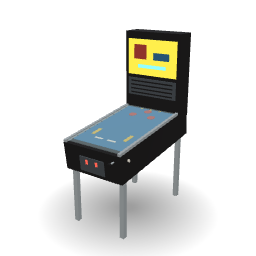
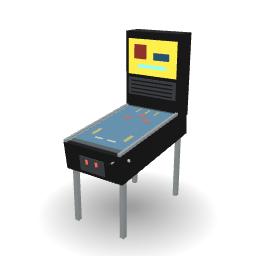
Arcade machines, first review: the pinball's playfield ends at its backbox, the upright's panel meets the base, sizes in the docs

Changed region(s): [[0.7188, 0.125, 0.75, 0.4375], [0.4688, 0.4062, 0.625, 0.5], [0.2812, 0.5312, 0.4688, 0.5938]]

diff --git a/art/scripts/household.py b/art/scripts/household.py
@@ -1126,7 +1126,7 @@ def _upright_screen(p, w, foot, head):
 @piece("service", "ArcadeUpright")
 def arcade_upright():
     """A one-player upright video arcade cabinet (generic, no game's art): the side profile with the control panel at the waist, the screen
-    leaning back above it, a lit marquee overhanging the top; side art; a coin door. 0.64 x 0.84 x 1.75 m."""
+    leaning back above it, a lit marquee overhanging the top; side art; a coin door. 0.66 x 0.72 x 1.75 m (0.64 wide without the side art)."""
     p = Prop("GH_ArcadeUpright_01")
     w, y_front, y_back, base_h = 0.64, -0.30, 0.42, 0.86
     foot, head = (y_front, base_h), (-0.14, 1.50)                                # the sloping screen face
@@ -1136,7 +1136,7 @@ def arcade_upright():
     p.box("black", (0, (marquee_y + y_back) / 2, (head[1] + top) / 2), (w, y_back - marquee_y, top - head[1]))
     p.box("glow_amber", (0, marquee_y - 0.006 + SINK, (head[1] + top) / 2), (w - 0.06, 0.012, 0.17))           # the lit marquee
     _upright_screen(p, w, foot, head)
-    tilt, panel = 12, (0, -0.33, 0.89)                                          # the control panel, leaning towards the player
+    tilt, panel = 12, (0, -0.33, 0.877)                                         # the control panel, leaning towards the player; its underside meets the base's front edge
     p.box("cloth_red", panel, (w - 0.004, 0.18, 0.05), rot=(tilt, 0, 0))
     _joystick(p, _tilted(panel, tilt, -0.15, -0.01, 0.025))
     for k in range(3):
@@ -1179,20 +1179,23 @@ def _pinball_legs(p, centre, tilt, length, height):
             p.box("metal_galv", (x, y, z / 2), (0.05, 0.05, z))
 
 
-def _playfield(p, centre, tilt, height):
-    """The playfield under glass on the tilted top: a blue field with bumpers, lanes and flippers, the glass on two side rails."""
+def _playfield(p, centre, tilt, height, field_end):
+    """The playfield under glass on the tilted top, from the front up to `field_end` (along the cabinet, where the backbox stands): a blue
+    field with bumpers, lanes and flippers, the glass on two side rails, its far end 2 cm into the backbox."""
     top = height / 2
-    p.box("label_blue", _tilted(centre, tilt, 0, 0, top + 0.003 - SINK), (0.62, 1.1, 0.006), rot=(tilt, 0, 0))
+    field_start = -0.53
+    p.box("label_blue", _tilted(centre, tilt, 0, (field_start + field_end) / 2, top + 0.003 - SINK), (0.62, field_end - field_start, 0.006), rot=(tilt, 0, 0))
     art = top + 0.004 + 0.002 - SINK / 2                                        # the decals, 1 mm into the field
-    for x, ly in ((-0.12, 0.25), (0.12, 0.25), (0.0, 0.38)):
+    for x, ly in ((-0.12, 0.15), (0.12, 0.15), (0.0, 0.26)):
         p.cyl("cloth_red", _tilted(centre, tilt, x, ly, art), 0.045, 0.004, n=10, rot=(tilt, 0, 0))
     for x in (-0.12, 0.0, 0.12):
-        p.box("paint_yellow", _tilted(centre, tilt, x, 0.485, art), (0.02, 0.11, 0.004), rot=(tilt, 0, 0))
+        p.box("paint_yellow", _tilted(centre, tilt, x, 0.37, art), (0.02, 0.1, 0.004), rot=(tilt, 0, 0))
     for sx in (-1, 1):
         p.box("paint_white", _tilted(centre, tilt, sx * 0.08, -0.42, art), (0.1, 0.025, 0.004), rot=(tilt, 0, 0))
         p.box("paint_yellow", _tilted(centre, tilt, sx * 0.2, -0.3, art), (0.04, 0.14, 0.004), rot=(tilt, 0, 0))
         p.box("metal_galv", _tilted(centre, tilt, sx * 0.333, 0, top + 0.015 - SINK), (0.03, 1.296, 0.03), rot=(tilt, 0, 0))   # inside the cabinet's sides and ends
-    p.box("clear_glass", _tilted(centre, tilt, 0, -0.02, top + 0.013), (0.66, 1.2, 0.008), rot=(tilt, 0, 0))
+    glass_start, glass_end = -0.61, field_end + 0.02
+    p.box("clear_glass", _tilted(centre, tilt, 0, (glass_start + glass_end) / 2, top + 0.013), (0.66, glass_end - glass_start, 0.008), rot=(tilt, 0, 0))
 
 
 def _backbox(p, w, y0, y1, z0, z1):
@@ -1211,14 +1214,17 @@ def _backbox(p, w, y0, y1, z0, z1):
 @piece("service", "Pinball")
 def pinball():
     """A pinball machine (generic): a long cabinet sloping down towards the player on four chrome legs, the playfield under glass, a tall lit
-    backbox at the far end, a coin door, flipper buttons on the sides and a plunger at the front right. 0.72 x 1.32 x 1.93 m."""
+    backbox at the far end, a coin door, flipper buttons on the sides and a plunger at the front right. 0.73 x 1.40 x 1.93 m with the plunger."""
     p = Prop("GH_Pinball_01")
     w, length, height, tilt = 0.7, 1.3, 0.3, 6.5
     centre = (0, -0.06, 0.85)
     p.box("black", centre, (w, length, height), rot=(tilt, 0, 0))
     _pinball_legs(p, centre, tilt, length, height)
-    _playfield(p, centre, tilt, height)
-    _backbox(p, w, 0.37, 0.59, 1.0, 1.93)
+    box_front, box_back = 0.37, 0.6
+    c, s = math.cos(math.radians(tilt)), math.sin(math.radians(tilt))
+    field_end = (box_front - centre[1] + height / 2 * s) / c                      # along the cabinet, where the backbox's front meets the top
+    _playfield(p, centre, tilt, height, field_end)
+    _backbox(p, w, box_front, box_back, 1.0, 1.93)
     front = -length / 2                                                         # the front face, across the cabinet's length
     p.box("metal_dark", _tilted(centre, tilt, 0, front - 0.006 + SINK, -0.03), (0.3, 0.012, 0.16), rot=(tilt, 0, 0))
     for dx in (-0.06, 0.06):

diff --git a/docs/assets/briefs/service-appliances.md b/docs/assets/briefs/service-appliances.md
@@ -77,10 +77,10 @@ All three are generic designs: no game, maker, character or logo is copied. The 
 
 - Upright: the side profile (built from three convex prisms: base, sloping screen section, marquee box), control panel tilted towards the player with a joystick and three buttons, a screen in a black bezel on the sloping face with a few lit blocks, a lit marquee, a coin door with two lit coin slots, a stripe of side art on each side.
 - Cocktail table: the black box, the screen under a glass top, a control panel with a joystick and two buttons at each short end, a coin door on a long side.
-- Pinball: the cabinet sloping down towards the player (6 degrees), four chrome legs (the front ones shorter), a coloured playfield with bumpers and flippers under glass, a backbox with a lit backglass and a speaker grille, a coin door, flipper buttons, the plunger.
-- Dropped: the CRT's shape behind the bezel, the playfield's ramps and lanes beyond a few blocks, the real art.
+- Pinball: the cabinet sloping down towards the player (6.5 degrees), four chrome legs (the front ones shorter), a coloured playfield with bumpers and flippers under glass, a backbox with a lit backglass and a speaker grille, a coin door, flipper buttons, the plunger.
+- Dropped: the CRT's shape behind the bezel, the playfield's ramps (three lanes and three flat bumpers are kept), the real art.
 
-Colours (palette names): `black` cabinets, `screen` and `glow_green`, `glow_cyan`, `glow_red`, `glow_amber` for the screens, marquees and backglass, `cloth_red` and `label_blue` side art, controls and playfield, `metal_galv` chrome, `metal_dark` coin doors, `clear_glass` glass, `paint_white` flippers.
+Colours (palette names): `black` cabinets, `screen` and `glow_cyan`, `glow_red`, `glow_amber` for the screens, marquees and backglass, `cloth_red` and `label_blue` side art, controls and playfield, `metal_galv` chrome, `metal_dark` coin doors, `clear_glass` glass, `paint_white` flippers.
 
 ## Size, pivot, budget, markers
 
@@ -97,7 +97,7 @@ Colours (palette names): `black` cabinets, `screen` and `glow_green`, `glow_cyan
 | Marquee box | 0.64 x 0.66 x 0.25, `black` | y -0.24 to 0.42, z 1.50 to 1.75 | on the screen section; overhangs its front by 10 cm |
 | Marquee light | 0.58 x 0.012 x 0.17, `glow_amber` | on the marquee box's front | sunk 2 mm |
 | Bezel, screen, pixels | parallel to the sloping face: `black` 0.56 x 0.50, `screen` 0.44 x 0.36, lit blocks | on the sloping face | each sunk into the one behind |
-| Control panel | 0.64 x 0.18 x 0.05, tilted 12 degrees towards the player, `cloth_red` | front edge at y -0.42, z about 0.89 | sunk into the base front |
+| Control panel | 0.64 x 0.18 x 0.05, tilted 12 degrees towards the player, `cloth_red` | front edge at y -0.42, z about 0.88, its underside on the base's front edge | sunk into the base front |
 | Joystick, buttons | a `metal_galv` stick with a `black` ball; three `label_blue` buttons | on the panel's face | sunk into it |
 | Coin door | 0.26 x 0.012 x 0.30, `metal_dark`; two `glow_red` slots | z 0.30 to 0.60 on the base front | sunk 2 mm |
 | Side art | a 0.006 thick `label_blue` panel and a `cloth_red` stripe on each side | x ±0.322 | sunk 2 mm into the side |

diff --git a/NOTES.md b/NOTES.md
@@ -342,4 +342,4 @@ What it says: triangles are not the limit (10,000 instanced Grey aliens are 9.8 
 
 ## Arcade machines (2026-10-27, branch `models/arcade`)
 
-The owner asked for arcade machines. Three new models (generic designs, no game's or maker's art), brief in `docs/assets/briefs/service-appliances.md`: `GH_ArcadeUpright_01` (an upright video cabinet, 0.64 x 0.84 x 1.75 m: the side profile with the control panel at the waist, the screen leaning back above it, a lit marquee; side art, a coin door), `GH_ArcadeCocktail_01` (a sit-down cocktail table, 0.92 x 0.53 x 0.76 m, the screen under a glass top, a control panel at each end) and `GH_Pinball_01` (0.72 x 1.32 x 1.93 m, sloping cabinet on chrome legs, playfield under glass, lit backbox, plunger). Built with `household.py` in the `room_hou_service` group; `Screen`/`Backglass` lights and `Attract` sounds in `emitters.SPECS`; colour parts named in `art/data/part_names.json`. The site goes to 504 models. **Checked:** `audit_props.py` (0 problems with the `prop-fit-audit` branch's gap, coplanar and reveal tests), the three in Blender from a 3/4 angle, the side and above, the thumbnails. **Not done:** a claw crane, a sit-down racer, air hockey and skee-ball (listed in the brief).
+The owner asked for arcade machines. Three new models (generic designs, no game's or maker's art), brief in `docs/assets/briefs/service-appliances.md`: `GH_ArcadeUpright_01` (an upright video cabinet, 0.66 x 0.72 x 1.75 m: the side profile with the control panel at the waist, the screen leaning back above it, a lit marquee; side art, a coin door), `GH_ArcadeCocktail_01` (a sit-down cocktail table, 0.92 x 0.53 x 0.76 m, the screen under a glass top, a control panel at each end) and `GH_Pinball_01` (0.73 x 1.40 x 1.93 m with the plunger, sloping cabinet on chrome legs, playfield under glass, lit backbox, plunger). Built with `household.py` in the `room_hou_service` group; `Screen`/`Backglass` lights and `Attract` sounds in `emitters.SPECS`; colour parts named in `art/data/part_names.json`. The site goes to 504 models. **Checked:** `audit_props.py` (0 problems with the `prop-fit-audit` branch's gap, coplanar and reveal tests), the three in Blender from a 3/4 angle, the side and above, the thumbnails. **Not done:** a claw crane, a sit-down racer, air hockey and skee-ball (listed in the brief).
